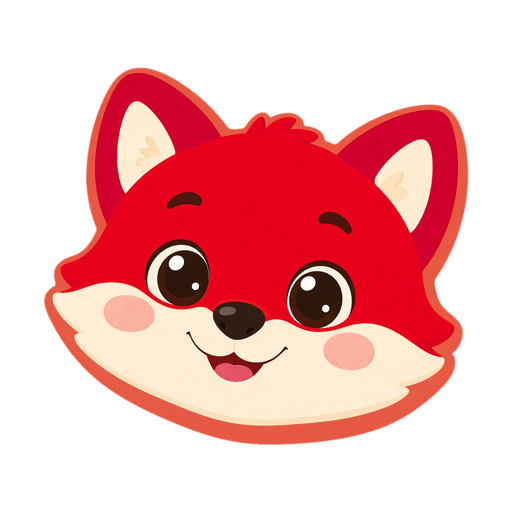
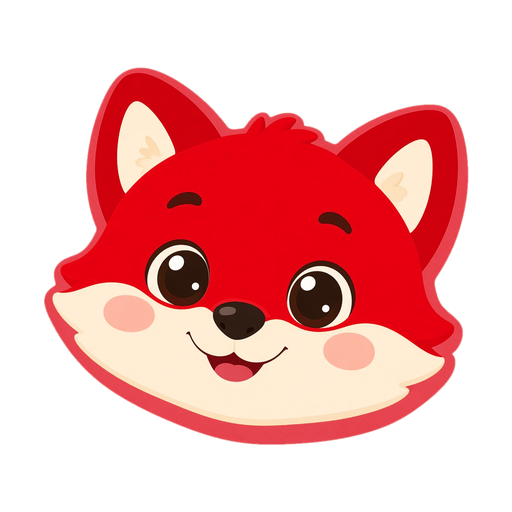
Keks-Studie Set F: weiche Umfärbung (keine Kanten), Nahaufnahmen

diff --git a/design-concepts/cookies/art/prepare.py b/design-concepts/cookies/art/prepare.py
@@ -39,26 +39,25 @@ def key(name, strip):
   alpha = np.asarray(m.filter(ImageFilter.GaussianBlur(1.3))).astype(float)
   return a, alpha
 
+def ramp(x, a, b): return np.clip((x - a) / (b - a), 0, 1)
+def hue_win(h, lo, hi, soft=12):  # soft window [lo, hi] on the hue circle (lo may be > hi to wrap)
+  if lo > hi: return np.maximum(hue_win(h, lo, 360 + soft, soft), hue_win(h, -soft, hi, soft))
+  return ramp(h, lo - soft, lo) * (1 - ramp(h, hi, hi + soft))
+
+# (hue window, min saturation, target hue, pull toward it, saturation gain, sat offset, sat cap, value gain)
+RECOLOUR = {
+  'pink':   ((300, 25), .06, 324, .85, 1.9, .08, .62, .98),   # pale pig → game Pink #f45bb8
+  'red':    ((3, 38), .4, 356, 1.0, 1.05, 0, 1, .95),         # orange fox → game Red #e8263f (never reads as the lion)
+  'green':  ((60, 160), .15, 125, .35, 1.3, 0, .9, .95),       # lime frog → game Green #2fc24e
+  'purple': ((245, 300), .1, 268, .4, 1.35, 0, .85, .97),     # lavender owl → game Purple #8f45ff
+}
 def recolour(a, mode):
-  """Soft hue/saturation push toward the game's region colour; weight w fades in with saturation and hue distance (no banding)."""
-  h, s, v = hsv(a)
-  band = lambda x, lo, hi, f: np.clip(np.minimum(x - lo, hi - x) / f, 0, 1)
-  hd = lambda c: (h - c + 180) % 360 - 180              # signed hue distance to c
-  if mode == 'pink':    # pale pig → game Pink (#f45bb8, hue ≈ 323°)
-    w = band(hd(345), -45, 45, 15) * np.clip((s - .03) / .12, 0, 1) * np.clip((v - .25) / .2, 0, 1)
-    nh, ns, nv = 324 + hd(345) * .2, np.clip(s * 1.9 + .08, 0, .62), v * .98
-  elif mode == 'red':   # orange fox fur → game Red (#e8263f, hue ≈ 352°), never confused with the orange lion
-    w = band(h, 2, 40, 6) * np.clip((s - .35) / .15, 0, 1) * np.clip((v - .25) / .15, 0, 1)
-    nh, ns, nv = h - 24, s * 1.05, v * .95
-  elif mode == 'green': # light lime frog → closer to game Green (#2fc24e)
-    w = band(h, 50, 175, 15) * np.clip((s - .1) / .25, 0, 1)
-    nh, ns, nv = h + (125 - h) * .35, np.clip(s * 1.3, 0, .9), v * .95
-  elif mode == 'purple':# lavender owl → closer to game Purple (#8f45ff)
-    w = band(h, 238, 305, 12) * np.clip((s - .06) / .15, 0, 1)
-    nh, ns, nv = h + (268 - h) * .4, np.clip(s * 1.35, 0, .85), v * .97
-  else: return a
-  out = from_hsv(nh % 360, np.clip(ns, 0, 1), np.clip(nv, 0, 1))
-  return a[..., :3] * (1 - w[..., None]) + out * w[..., None]
+  if mode not in RECOLOUR: return a
+  (lo, hi), smin, th, pull, sg, so, cap, vg = RECOLOUR[mode]
+  h, s, v = hsv(a); w = hue_win(h, lo, hi) * ramp(s, smin, smin + .15) * ramp(v, .25, .4)
+  dh = ((th - h + 180) % 360) - 180
+  out = from_hsv(h + dh * pull, np.clip(s * sg + so, 0, cap), np.clip(v * vg, 0, 1))
+  return a + (out - a) * w[..., None]
 
 def flood(passable):  # region of `passable` connected to the image border (iterative constrained dilation)
   r = np.zeros_like(passable); r[0, :] = passable[0, :]; r[-1, :] = passable[-1, :]; r[:, 0] = passable[:, 0]; r[:, -1] = passable[:, -1]
